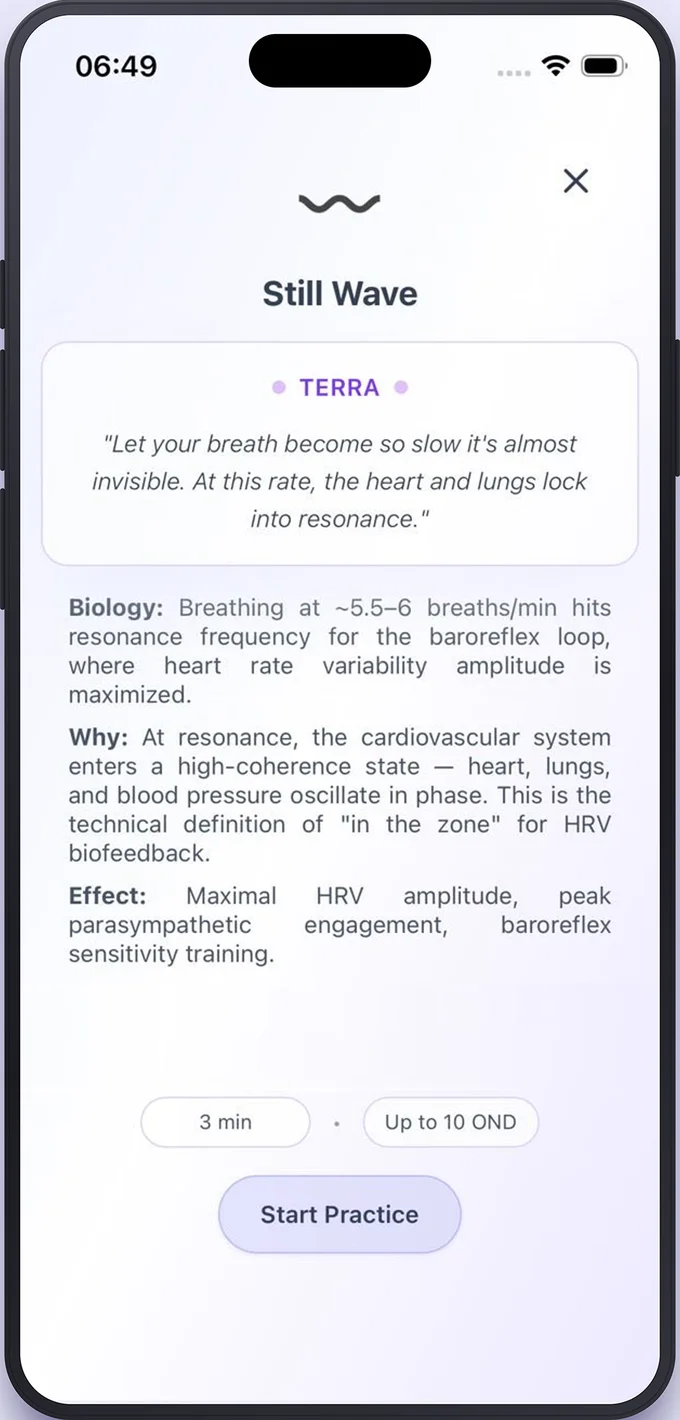
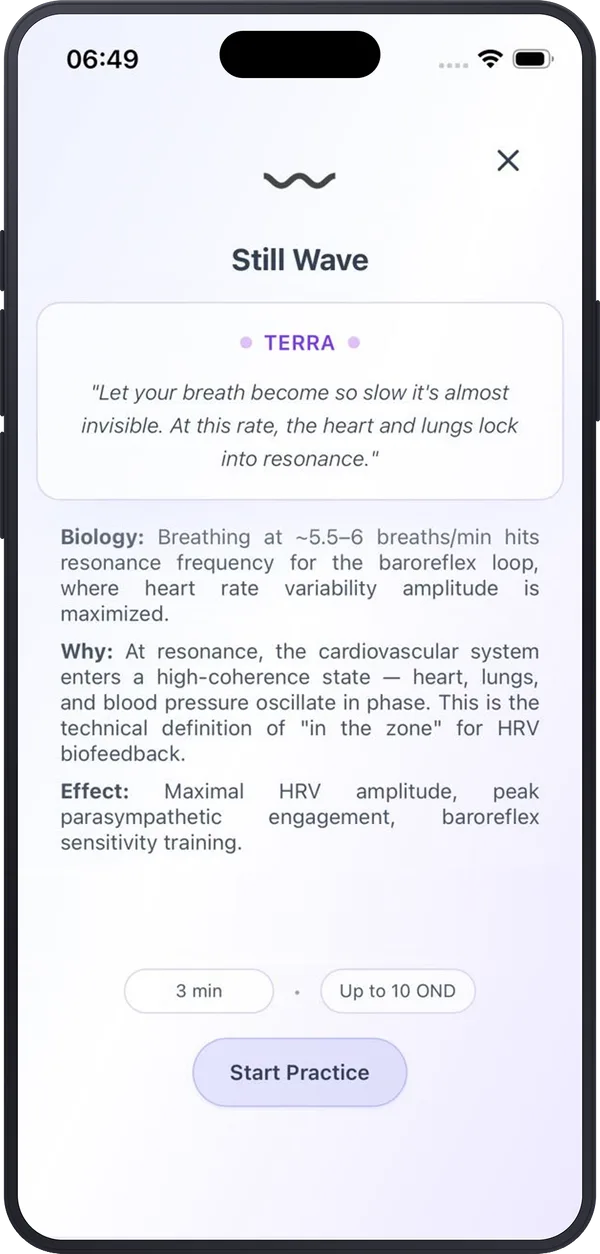
style(site): all homepage phones as transparent cut-outs; tighten glow
Replace the remaining rectangular crops (showcase 1-3 + proof) with the
alpha cut-outs from the same set, trimmed to ~600w. Drop the rounded/
ring/box-shadow framing — the silhouette is the frame now.

Tighten the teal glow per feedback (was too wide under the phone):
- hero: 60px → 36px radius, under-shadow 12/28 → 6/16
- showcase + proof: lighter 24px glow, 6/14 under-shadow

All cut-out webp keep alpha (26-47 KB). Bezels stay dark.

diff --git a/landing/src/components/ProofSection.tsx b/landing/src/components/ProofSection.tsx
@@ -47,9 +47,9 @@ export function ProofSection() {
                 src="/images/home/proof.webp"
                 alt={t('proof.shotAlt')}
                 loading="lazy"
-                width="940"
-                height="1960"
-                className="w-full rounded-[1.9rem] shadow-2xl shadow-black/40 ring-1 ring-white/10"
+                width="600"
+                height="1252"
+                className="w-full [filter:drop-shadow(0_0_24px_rgba(45,212,191,0.22))_drop-shadow(0_6px_14px_rgba(0,0,0,0.45))]"
               />
               <figcaption className="mt-4 text-center font-mono text-[11px] leading-relaxed text-white/45">
                 {t('proof.shotCaption')}

diff --git a/landing/src/components/ProductSection.tsx b/landing/src/components/ProductSection.tsx
@@ -13,9 +13,9 @@ function PhoneShot({ n, caption, alt }: { n: number; caption: string; alt: strin
         src={`/images/home/showcase-${n}.webp`}
         alt={alt}
         loading="lazy"
-        width="940"
-        height="1960"
-        className="w-full max-w-[230px] rounded-[1.9rem] shadow-2xl shadow-black/40 ring-1 ring-white/10"
+        width="600"
+        height="1252"
+        className="w-full max-w-[230px] [filter:drop-shadow(0_0_24px_rgba(45,212,191,0.22))_drop-shadow(0_6px_14px_rgba(0,0,0,0.45))]"
       />
       <figcaption className="mt-4 max-w-[230px] text-center font-mono text-[11px] leading-relaxed text-white/45">
         {caption}

diff --git a/landing/src/components/HeroSection.tsx b/landing/src/components/HeroSection.tsx
@@ -192,7 +192,7 @@ export function HeroSection() {
               width="760"
               height="1588"
               fetchPriority="high"
-              className="mx-auto w-full [filter:drop-shadow(0_0_60px_rgba(45,212,191,0.28))_drop-shadow(0_12px_28px_rgba(0,0,0,0.45))]"
+              className="mx-auto w-full [filter:drop-shadow(0_0_36px_rgba(45,212,191,0.30))_drop-shadow(0_6px_16px_rgba(0,0,0,0.5))]"
             />
           </div>
         </div>
